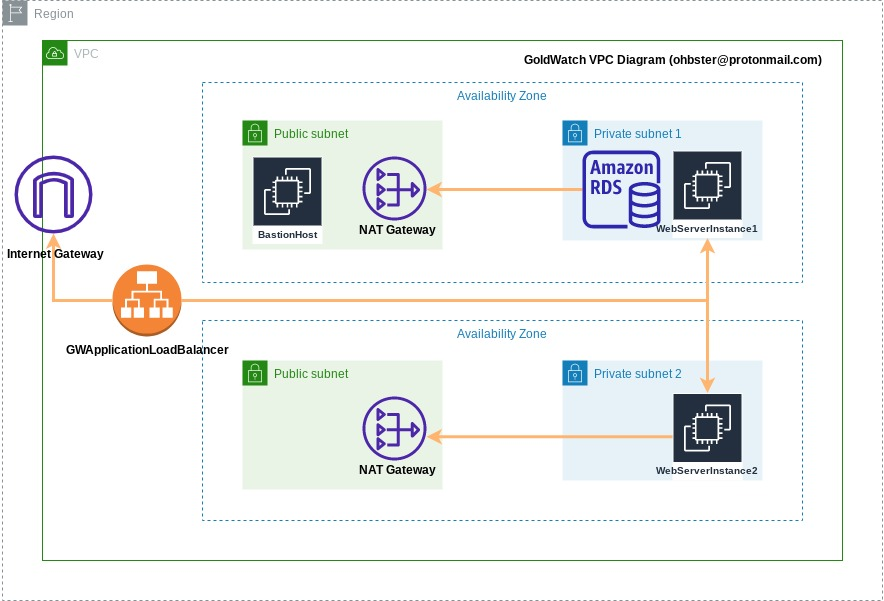
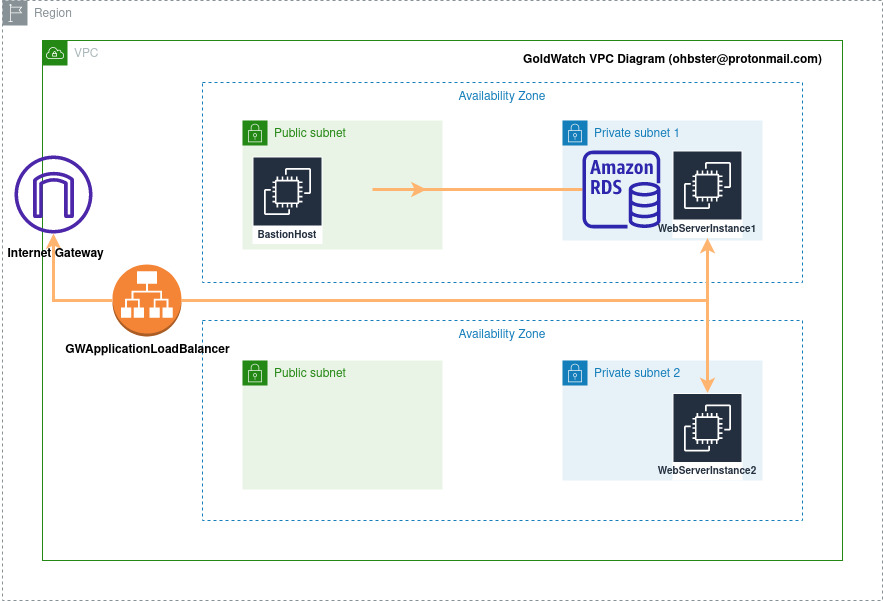
Clean up and removed nat

diff --git a/README.md b/README.md
@@ -6,7 +6,7 @@ This is my first SAM / CloudFormation application. Its primary purpose is a lear
 *Update this readme to include list of files and there purpose*
 
 *Notes*
-- The purprose of this app is primarily a learning exercise. I should be pretty useful during in the meantime with current market volitilty
+- The purpose of this app is primarily a learning exercise. I should be pretty useful during in the meantime with current market volatility
 
 - The RDS DBInstance will default to whatever the vpc is the default on the aws account. This is only done
 to avoid incurring charges by using a subnetgroup and multi-az instances running as free tier only allow a single-az instance and I am unaware of any way to deploy the instance to another VPC without subnetgroup. If you know of one, do email me as I am still learning AWS deployment. ohbster@protonmail.com
